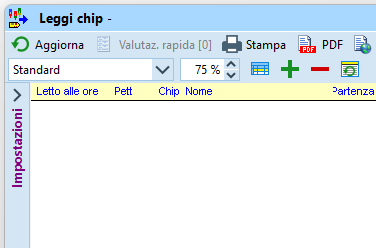
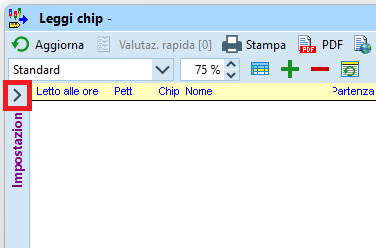
gui pannello supplementare

Changed region(s): [[0.0, 0.3105, 0.0878, 0.4516]]

diff --git a/docs/software/oe12/interfaccia_grafica.md b/docs/software/oe12/interfaccia_grafica.md
@@ -1,8 +1,5 @@
 # Interfaccia grafica di OE12
 
-**QUESTA PAGINA È ANCORA DA FARE**  
-![Lavori in corso](../../img/lavori_in_corso.png){width=100px}
-
 Questo capitolo descrive alcune caratteristiche comuni a molte finestre nel programma. Molte sono di uso comune in quanto presenti anche in altre applicazioni, ma vengono riportate per sottolineare la differenza rispetto alla versione precedente.
 
 ## Multifinestre
@@ -55,16 +52,17 @@ A volte le opzioni sono raggruppate in sezioni all'interno del pannello, e posso
 ![Opzioni con sezioni nascoste](inc/gui_opzioni_aperte_chiuse.png)
 
 ## Pannello supplementare
-{==
+
 Alcune finestre hanno un pannello supplementare nella parte bassa. Simile al pannello delle
-opzioni, anche questo pannello nasconde di regola i dati, ma ha la puntina per fissarlo in
-modalità "sempre visibile".
+opzioni, anche questo presenta i bottoni con le freccette per mostrare o nascondere il pannello stesso.
 
 La funzionalità di questo pannello varia a seconda della finestra in cui si trova.
 Ad esempio nel dialogo delle iscrizioni questo pannello mostra l'archivio SOLV, mentre nelle
 liste di partenza e nelle classifiche permette di selezionare le categorie da elaborare.
-==}
-![Lavori in corso](../../img/lavori_in_corso.png){width=100px}
+Nell'esempio, la finestra della lettura chip con il pannello supplementare con i posti di riserva.  
+![Pannello supplementare aperto](inc/gui_pannello_supplementare_aperto.png)  
+  
+![Pannello supplementare chiuso](inc/gui_pannello_supplementare_chiuso.png)  
 
 ## Rapporti e etichette
 
